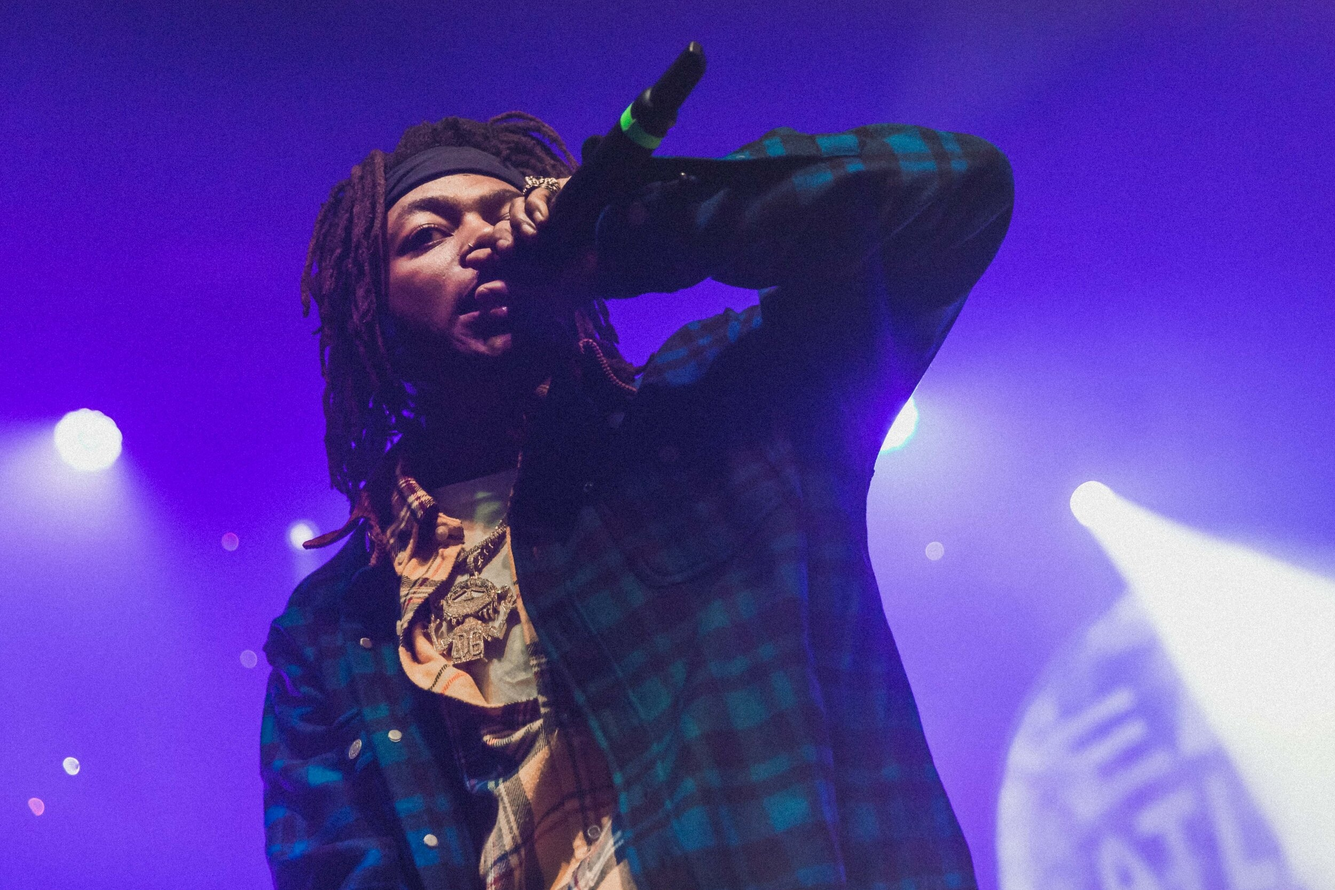
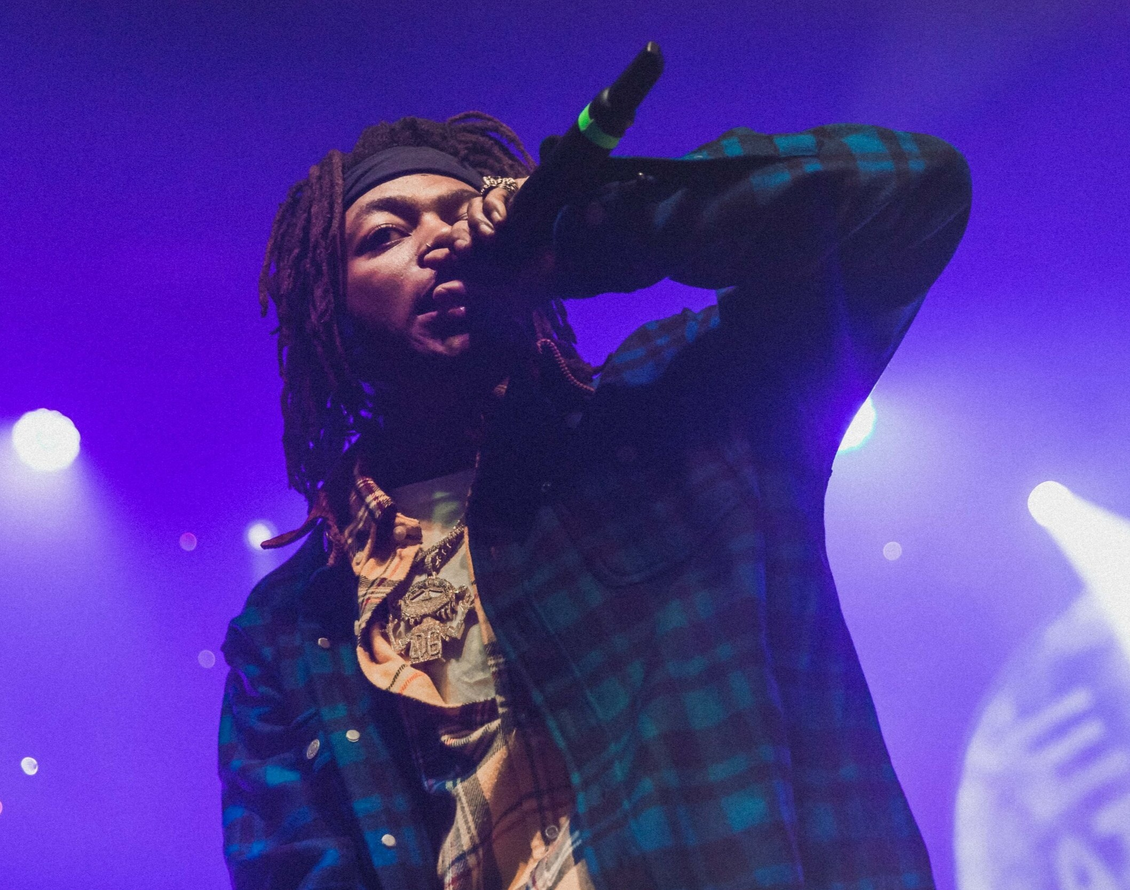
Improved responsiveness of About section

diff --git a/src/style.css b/src/style.css
@@ -93,7 +93,6 @@ header a {
 }
 
 .featured-photo {
-    max-width: 550px;
     width: 100%;
 }
 
@@ -153,7 +152,7 @@ header a {
     opacity: 0.7;
 }
 
-@media (max-width: 768px) {
+@media (max-width: 900px) {
     header {
         padding: 60px;
     }
